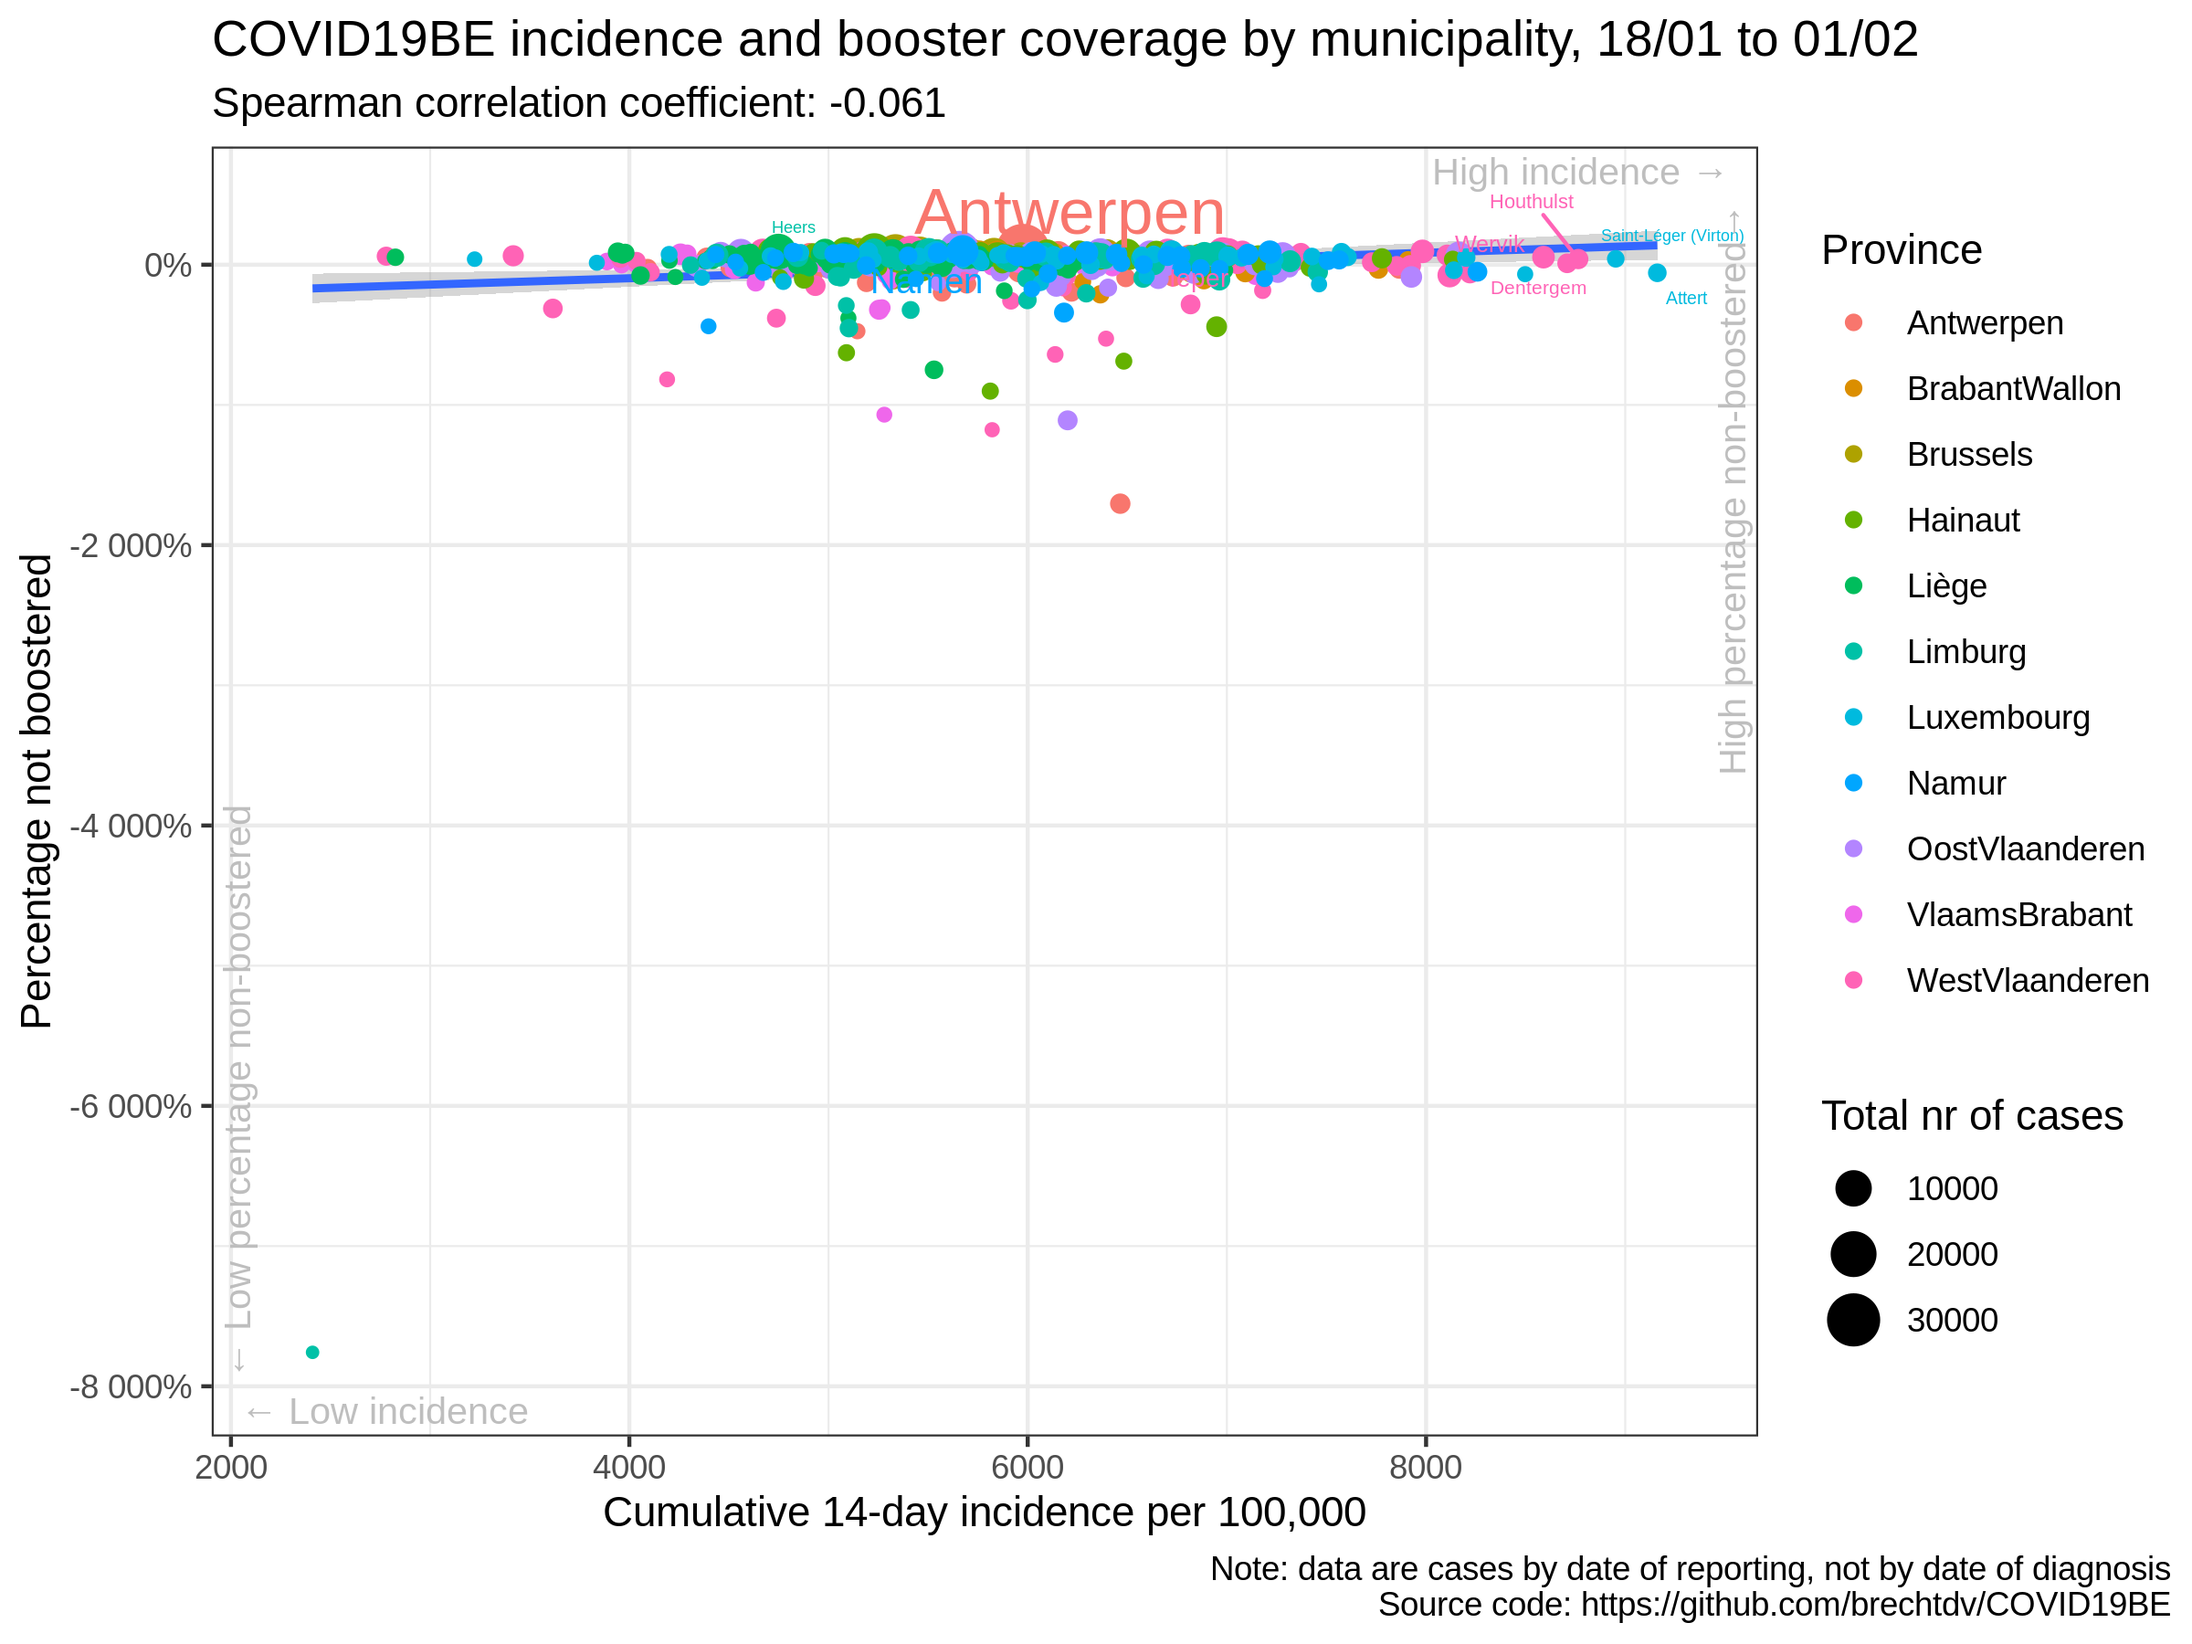
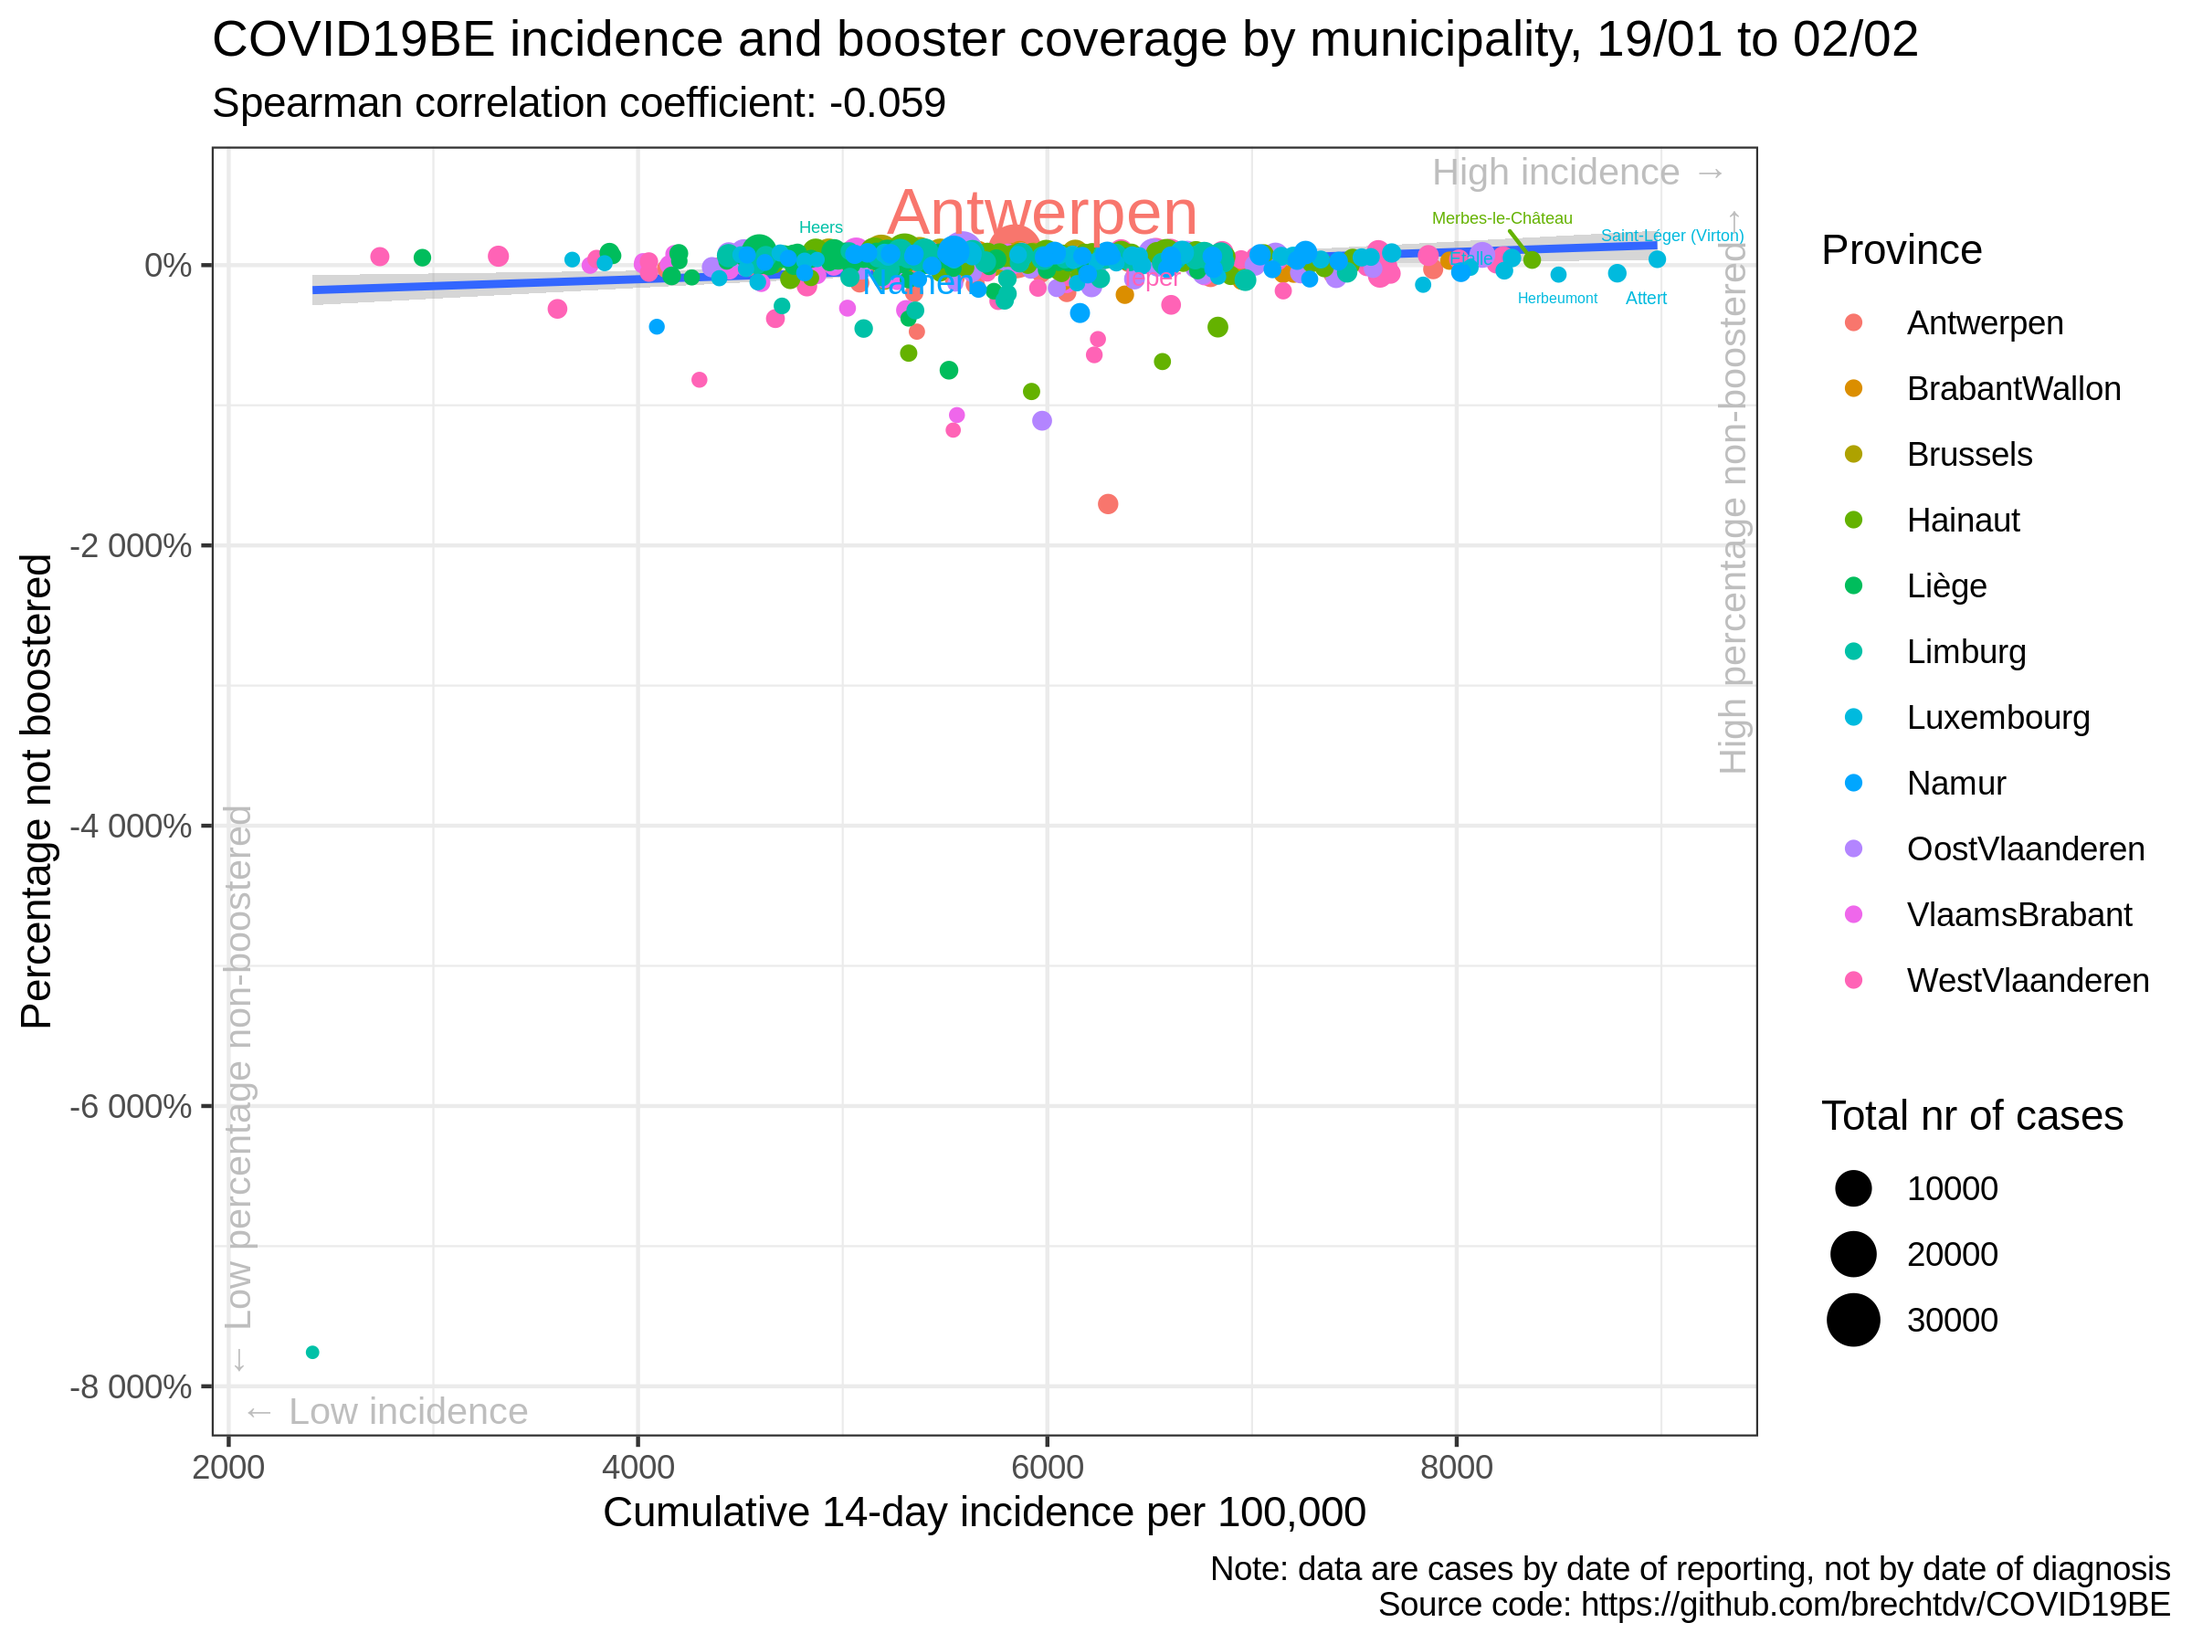
update situation

diff --git a/vaccination/README.md b/vaccination/README.md
@@ -17,35 +17,35 @@
 
 |                | estimate.rho | p.value |
 | :------------- | -----------: | ------: |
-| Antwerpen      |      \-0.003 |   0.979 |
-| BrabantWallon  |      \-0.543 |   0.004 |
-| Brussels       |        0.093 |   0.705 |
-| Hainaut        |      \-0.097 |   0.426 |
-| Liège          |      \-0.128 |   0.245 |
-| Limburg        |        0.068 |   0.667 |
-| Luxembourg     |      \-0.098 |   0.525 |
-| Namur          |      \-0.137 |   0.419 |
-| OostVlaanderen |      \-0.150 |   0.252 |
-| VlaamsBrabant  |        0.047 |   0.709 |
-| WestVlaanderen |        0.107 |   0.401 |
-| Belgium        |      \-0.052 |   0.209 |
+| Antwerpen      |      \-0.005 |   0.967 |
+| BrabantWallon  |      \-0.529 |   0.005 |
+| Brussels       |        0.060 |   0.809 |
+| Hainaut        |      \-0.143 |   0.241 |
+| Liège          |      \-0.186 |   0.091 |
+| Limburg        |        0.113 |   0.475 |
+| Luxembourg     |      \-0.130 |   0.399 |
+| Namur          |      \-0.122 |   0.470 |
+| OostVlaanderen |      \-0.159 |   0.223 |
+| VlaamsBrabant  |        0.011 |   0.929 |
+| WestVlaanderen |        0.083 |   0.516 |
+| Belgium        |      \-0.056 |   0.181 |
 
 ### Correlation cumulative incidence vs booster rate
 
 |                | estimate.rho | p.value |
 | :------------- | -----------: | ------: |
-| Antwerpen      |      \-0.002 |   0.986 |
-| BrabantWallon  |      \-0.543 |   0.004 |
-| Brussels       |        0.077 |   0.754 |
-| Hainaut        |      \-0.095 |   0.436 |
-| Liège          |      \-0.146 |   0.185 |
-| Limburg        |        0.068 |   0.666 |
-| Luxembourg     |      \-0.108 |   0.485 |
-| Namur          |      \-0.123 |   0.468 |
-| OostVlaanderen |      \-0.155 |   0.237 |
-| VlaamsBrabant  |        0.023 |   0.857 |
-| WestVlaanderen |        0.110 |   0.384 |
-| Belgium        |      \-0.061 |   0.144 |
+| Antwerpen      |        0.000 |   1.000 |
+| BrabantWallon  |      \-0.534 |   0.005 |
+| Brussels       |        0.047 |   0.848 |
+| Hainaut        |      \-0.144 |   0.238 |
+| Liège          |      \-0.199 |   0.070 |
+| Limburg        |        0.113 |   0.476 |
+| Luxembourg     |      \-0.138 |   0.371 |
+| Namur          |      \-0.111 |   0.511 |
+| OostVlaanderen |      \-0.160 |   0.222 |
+| VlaamsBrabant  |      \-0.014 |   0.911 |
+| WestVlaanderen |        0.087 |   0.491 |
+| Belgium        |      \-0.059 |   0.153 |
 
 ### Data source
 
